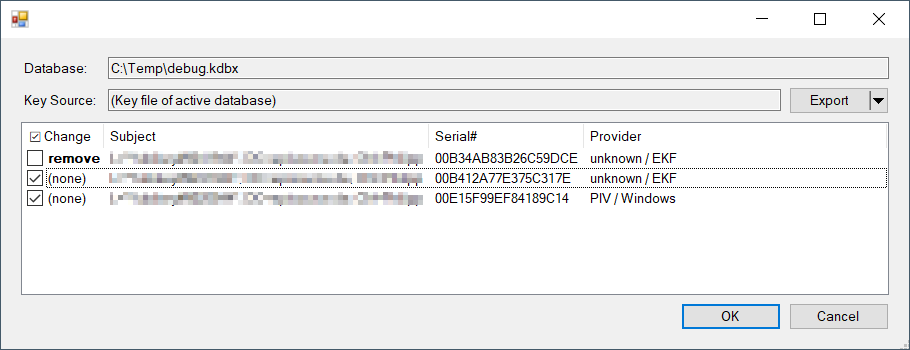
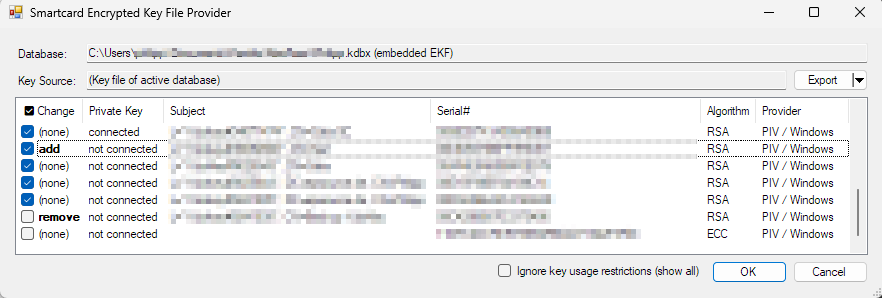
Update EKF editor screenshot

Changed region(s): [[0.0, 0.151, 1.0, 0.9664], [0.0, 0.0, 1.0, 0.0906], [0.0, 0.9664, 1.0, 1.0]]

diff --git a/README.md b/README.md
@@ -99,13 +99,14 @@ Note: If the current database already uses a plaintext key file in addition to t
 1. Open and unlock a database using an encrypted or plaintext key file.
 2. In the `Tools` menu, select `Edit Encrypted Key File`. A dialog like the one below appears:
 <br/>![Change authorization: EKF editor](./doc/change-authorization_edit-ekf.png)
-   1. All currently authorized smartcards are preselected.
-   2. Smartcards that are currently authorized but not known to the current computer are reported as having the `unknown / EKF` provider. Authorization of these smartcards is preserved by default.
-   3. Smartcards known to the current computer that are not yet authorized are available for manual selection.
-   4. Uncheck entries to revoke authorization for the corresponding smartcards.
-   5. Check previously unchecked entries to grant authorization.
-   6. Use the `Export` button to export the encrypted key to a plaintext backup key file.
-   7. The encrypted key itself cannot be changed from within this dialog (the extended features provided by the drop-down menu next to the `Export` button are disabled). Use `Change Master Key...` from the `File` menu instead to change the encrypted key.
+   1. Only certificates with matching `Key Usage Extension` or shown - tick `Ignore key usage restrictions` to show all.
+   2. All currently authorized smartcards are preselected.
+   3. Smartcards that are currently authorized but not known to the current computer are reported as having the `unknown / EKF` provider. Authorization of these smartcards is preserved by default.
+   4. Smartcards known to the current computer that are not yet authorized are available for manual selection.
+   5. Uncheck entries to revoke authorization for the corresponding smartcards.
+   6. Check previously unchecked entries to grant authorization.
+   7. Use the `Export` button to export the encrypted key to a plaintext backup key file.
+   8. The encrypted key itself cannot be changed from within this dialog (the extended features provided by the drop-down menu next to the `Export` button are disabled). Use `Change Master Key...` from the `File` menu instead to change the encrypted key.
 
 # YubiKey 5 PIV setup
 
